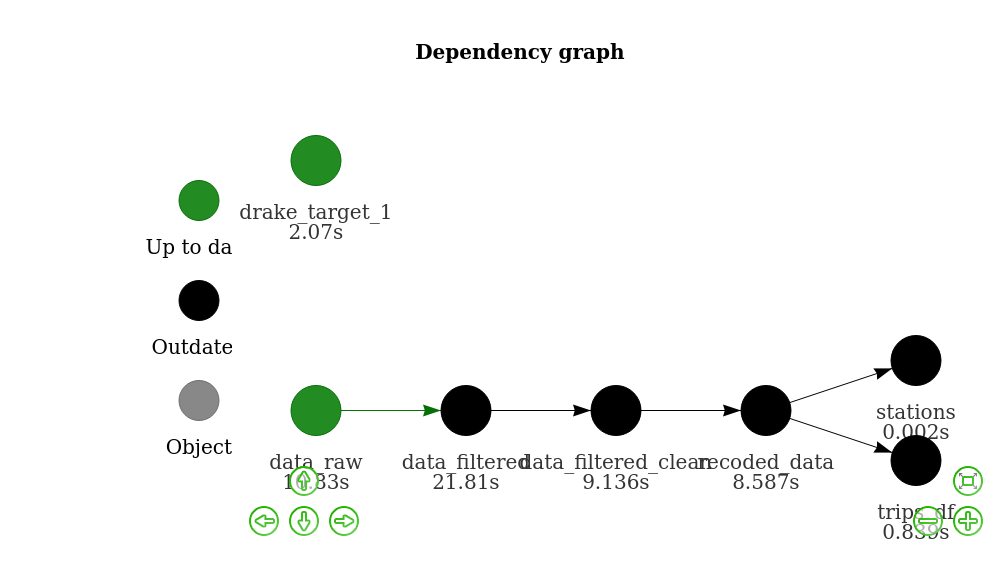
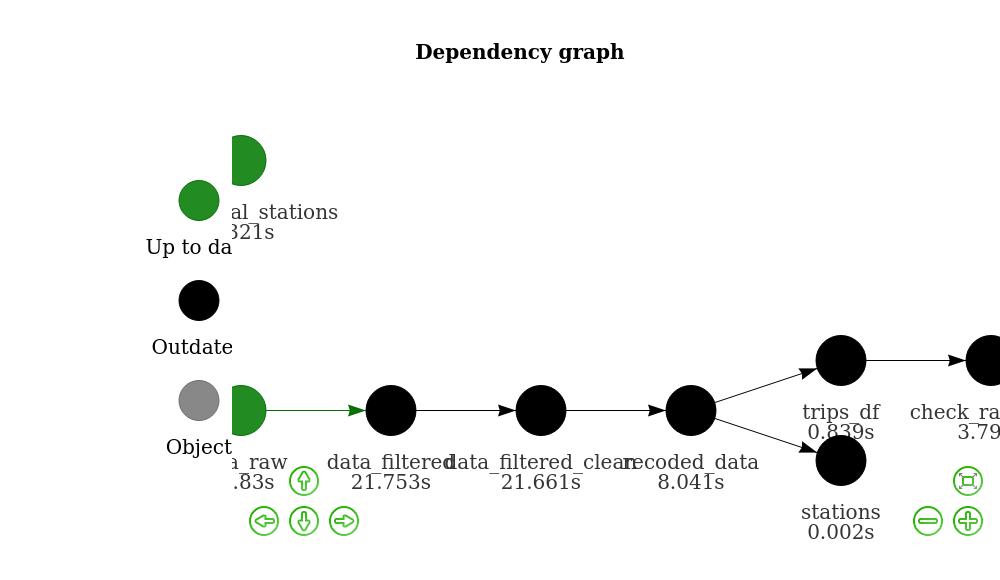
Update daily chart

Changed region(s): [[0.217, 0.5586, 1.0, 0.8379], [0.217, 0.2172, 0.372, 0.4345], [0.806, 0.869, 0.961, 0.931]]

diff --git a/README.md b/README.md
@@ -37,7 +37,7 @@ pkgs_loaded[[length(pkgs_loaded)]]
 source("R/get_london_cycle_hire_data.R")
 source("R/plan.R")
 plan
-#> # A tibble: 7 x 3
+#> # A tibble: 8 x 3
 #>   target           command                                                format
 #>   <chr>            <expr>                                                 <chr> 
 #> 1 data_raw         fst::read.fst("data_raw_5pc.fst")                    … fst   
@@ -46,7 +46,8 @@ plan
 #> 4 recoded_data     lchs_recode(trips_df = data_filtered_clean, stations … <NA>  
 #> 5 trips_df         recoded_data[[1]]                                    … <NA>  
 #> 6 stations         recoded_data[[2]]                                    … <NA>  
-#> 7 drake_target_1   source("code/get-global-stations.R")                 … <NA>
+#> 7 check_raw_data   lchs_check_dates(trips_df)                           … <NA>  
+#> 8 get_global_stat… source("code/get-global-stations.R")                 … <NA>
 ```
 
 To reproduce all the results in the paper, you can make the plan with:
